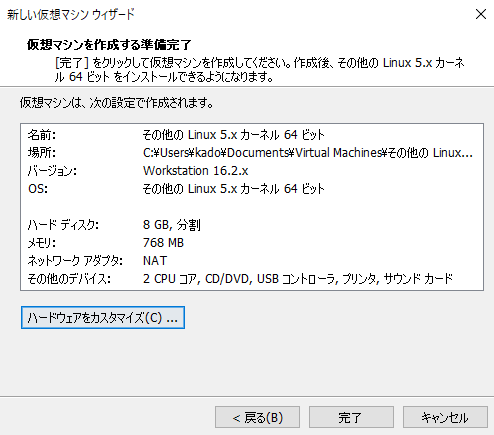
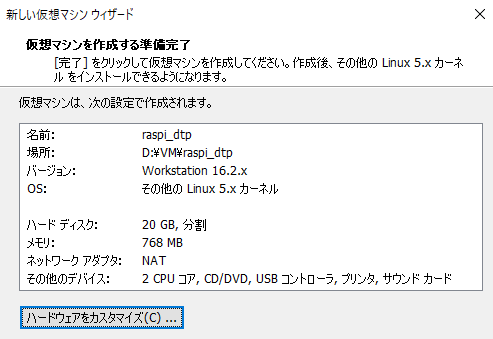
update set_up_raspi_as_vm.

diff --git a/set_up_raspi_as_vm/README.md b/set_up_raspi_as_vm/README.md
@@ -7,15 +7,20 @@
 ## Raspberry Pi Desktopのインストール
 仮想マシンとしてRaspberry Pi Desktop（raspi_dtp）をインストールする。
 
-まず、[ここ](https://www.raspberrypi.com/software/raspberry-pi-desktop/)からRaspiのディスクイメージ **20xx-x-x-raspios-bullseye-i386.iso**をダウンロードする。
+まず、[ここ](https://www.raspberrypi.com/software/raspberry-pi-desktop/)の[Download下のArchive](https://downloads.raspberrypi.org/rpd_x86/images/)からRaspiのディスクイメージ **rpd_x86-2021-01-12/**(2021-01-11-raspios-buster-i386.iso)をダウンロードする。なお、Ricoh Theta USB APIの[ドキュメント](https://codetricity.github.io/theta-linux/usb_api/#hardware-and-os
+)には：
+> Raspberry Pi 3 with Raspian 10, buster. Any version and any model should work.
 
-VMWareにて、「新規仮想マシンの作成」をクリック。ウィザードが立ち上がるので、**インストーラディスクイメージファイル**に先程ダウンロードした**20xx-x-x-raspios-bullseye-i386.iso**を指定して（次図）次へ。
+とあるが、テストではRaspian 11 (bullseye, rpd_x86-2022-07-04/	(2022-07-01-raspios-bullseye-i386.iso))では、Z1、SC2共に適切に動作しなかった。
+
+VMWareにて、「新規仮想マシンの作成」をクリック。ウィザードが立ち上がるので、**インストーラディスクイメージファイル**に先程ダウンロードした**2021-01-11-raspios-buster-i386.iso**を指定して（次図）次へ。
 
 ![インストーラディスクイメージファイルを指定して次へ](./assets/2022-08-23%20111411.png)
-
+図はbullseye、正しくはbuster
 raspi_dtpの場合、OSの種類が自動判別されないので次図のように指定する。
 
 ![OSの指定](./assets/2022-08-23%20111517.png)
+正しくは「その他のLinux 5.xカーネル」で64bitではない
 
 仮想マシンの名前の設定（次図）。場所で指定したフォルダ（ここでは`D:\VM\raspi_dtp`）に複数のファイルが展開されるのでトップレベルのフォルダを指定すること。
 
@@ -29,7 +34,7 @@ raspi_dtpの場合、OSの種類が自動判別されないので次図のよう
 
 ![ハードウェアのカスタマイズ](./assets/2022-08-23%20161121.png)
 
-ホストのスペックによるが少なくとも2GB程度はあったほうが良いかもしれない。余裕があればプロセッサ数も増やすと良い。
+ホストのスペックによるが8GB確保することが推奨されている。余裕があればプロセッサ数も増やすと良い。
 
 ![仮想マシンのメモリを増やす](./assets/2022-08-23%20161217.png)
 
